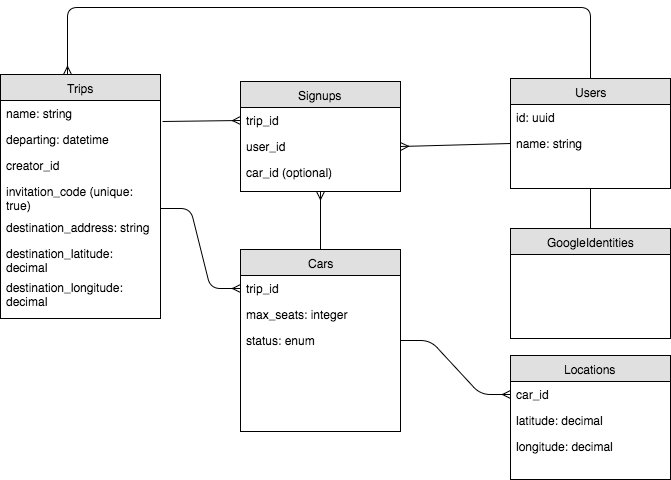
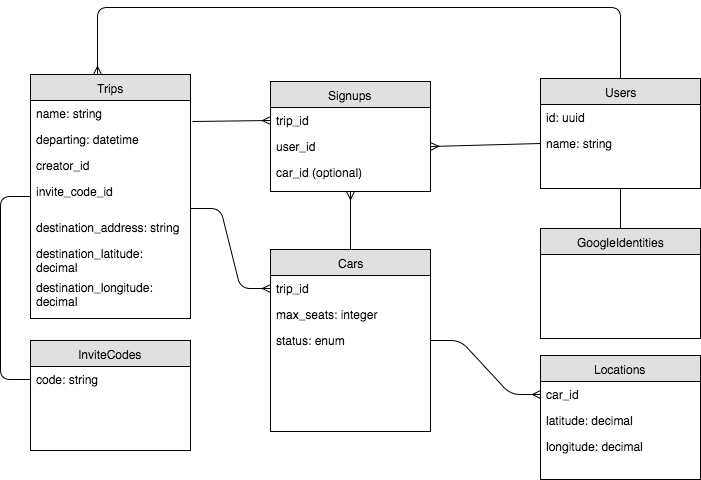
created InviteCodes table, models, and tests, and updated InviteCodeGenerator logic to query InviteCodes

diff --git a/spec/models/trip_spec.rb b/spec/models/trip_spec.rb
@@ -3,6 +3,7 @@ require "rails_helper"
 RSpec.describe Trip, type: :model do
   describe "associations" do
     it { should belong_to(:creator) }
+    it { should belong_to(:invite_code) }
     it { should have_many(:cars) }
     it { should have_many(:signups) }
     it { should have_many(:users).through(:signups) }
@@ -14,7 +15,7 @@ RSpec.describe Trip, type: :model do
     it { should validate_presence_of(:destination_address) }
     it { should validate_presence_of(:destination_latitude) }
     it { should validate_presence_of(:destination_longitude) }
-    it { should validate_presence_of(:invite_code) }
+    it { should validate_presence_of(:invite_code_id) }
     it { should validate_presence_of(:name) }
     it do
       user = create(:user)

diff --git a/app/models/trip.rb b/app/models/trip.rb
@@ -1,5 +1,6 @@
 class Trip < ApplicationRecord
   belongs_to :creator, class_name: :User
+  belongs_to :invite_code
 
   has_many :cars
   has_many :signups
@@ -10,6 +11,6 @@ class Trip < ApplicationRecord
   validates :destination_address, presence: true
   validates :destination_latitude, presence: true
   validates :destination_longitude, presence: true
-  validates :invite_code, presence: true
+  validates :invite_code_id, presence: true, uniqueness: true
   validates :name, presence: true, uniqueness: true
 end

diff --git a/db/migrate/20170612193354_change_invite_codes_column.rb b/db/migrate/20170612193354_change_invite_codes_column.rb
@@ -1,0 +1,12 @@
+class ChangeInviteCodesColumn < ActiveRecord::Migration[5.1]
+  def up
+    remove_column :trips, :invite_code
+    add_column :trips, :invite_code_id, :uuid, null: false, foreign_key: true, index: { unique: true }
+  end
+
+  def down
+    add_column :trips, :invite_code, :string, null: false
+    add_index :trips, :invite_code, unique: true
+    remove_column :trips, :invite_code_id
+  end
+end

diff --git a/spec/services/invite_code_generator_spec.rb b/spec/services/invite_code_generator_spec.rb
@@ -8,8 +8,8 @@ describe InviteCodeGenerator do
 
       expect(response).to be_a InviteCodeGenerator
       expect(response.invite_code).to_not be nil
-      expect(response.invite_code).to be_a String
-      expect(response.invite_code.length).to equal 20
+      expect(response.invite_code.code).to be_a String
+      expect(response.invite_code.code.length).to equal 20
     end
   end
 end

diff --git a/app/services/invite_code_generator.rb b/app/services/invite_code_generator.rb
@@ -10,10 +10,11 @@ class InviteCodeGenerator
   private
 
   def generate_code
-    code = SecureRandom.hex(10)
-    if !Trip.where(invite_code: code).empty?
-      code = generate_code
+    code = InviteCode.new(code: SecureRandom.hex(10))
+    if code.save
+      return code
+    else
+      generate_code
     end
-    code
   end
 end

diff --git a/spec/models/invite_code_spec.rb b/spec/models/invite_code_spec.rb
@@ -1,0 +1,15 @@
+require "rails_helper"
+
+RSpec.describe InviteCode, type: :model do
+  describe "associations" do
+    it { should have_one(:trip) }
+  end
+
+  describe "validations" do
+    it { should validate_presence_of(:code) }
+    it do
+      create(:invite_code)
+      should validate_uniqueness_of(:code)
+    end
+  end
+end

diff --git a/spec/factories/trips.rb b/spec/factories/trips.rb
@@ -6,6 +6,6 @@ FactoryGirl.define do
     destination_latitude 1.000000
     destination_longitude 1.000000
     destination_address "1 Sesame St"
-    sequence(:invite_code) { |n| "sdfsdfd #{n}" }
+    invite_code 
   end
 end

diff --git a/db/migrate/20170612193216_create_invite_codes.rb b/db/migrate/20170612193216_create_invite_codes.rb
@@ -1,0 +1,7 @@
+class CreateInviteCodes < ActiveRecord::Migration[5.1]
+  def change
+    create_table :invite_codes, id: :uuid do |t|
+      t.string :code, null: false, index: { unique: true }
+    end
+  end
+end

diff --git a/app/models/invite_code.rb b/app/models/invite_code.rb
@@ -1,0 +1,5 @@
+class InviteCode < ApplicationRecord
+  has_one :trip
+
+  validates :code, presence: true, uniqueness: true
+end

diff --git a/spec/factories/invite_codes.rb b/spec/factories/invite_codes.rb
@@ -1,0 +1,5 @@
+FactoryGirl.define do
+  factory :invite_code do
+    sequence(:code) { |n| "sdfsdfd #{n}" } 
+  end
+end
